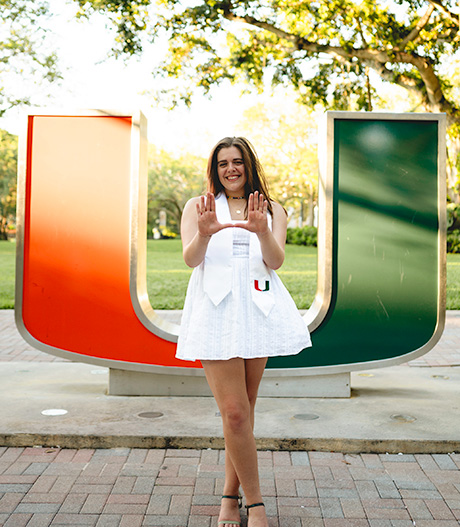
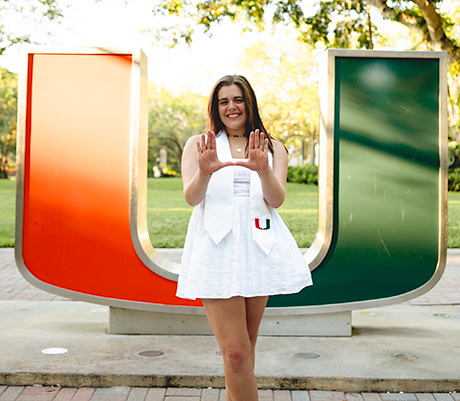
grad

diff --git a/index.html b/index.html
@@ -33,7 +33,7 @@
     </section>
 
     <aside id="photo1">
-      <img src="images/grad.jpg" alt="Hope sitting down">
+      <img src="images/hope.jpg" alt="Hope sitting down">
     </aside>
 
     <aside id="places">
